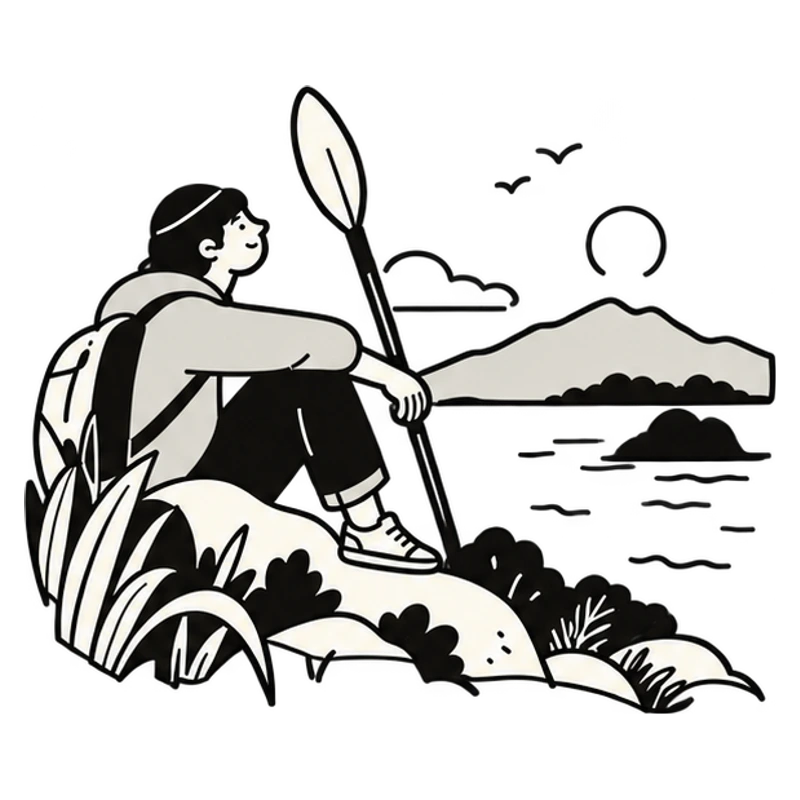
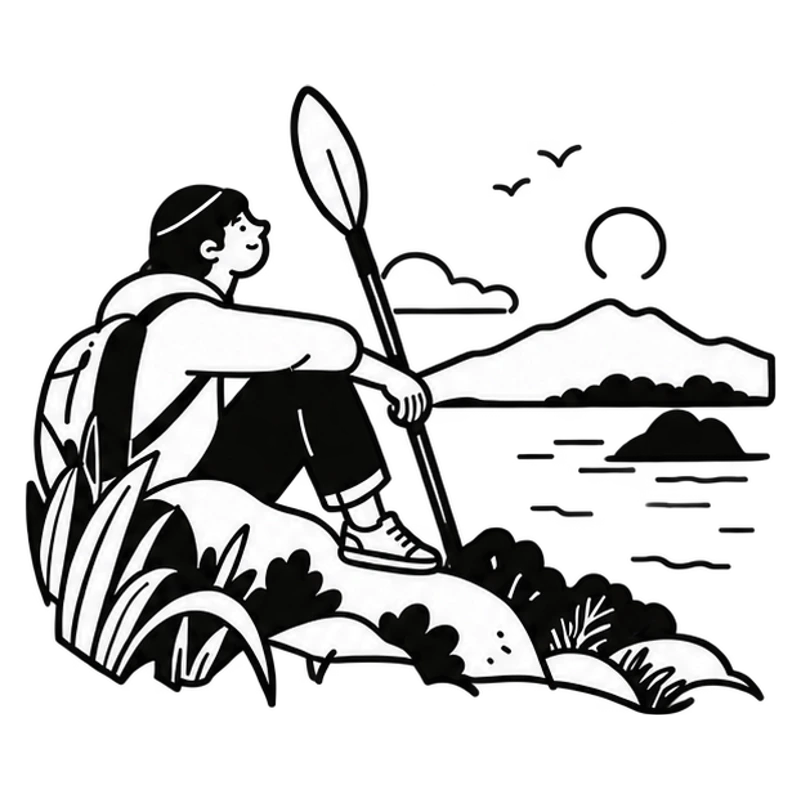
Enlarge model illustrations and replace beige fills with white

diff --git a/model/index.html b/model/index.html
@@ -76,7 +76,7 @@
 }
     </script>
     <script src="../assets/theme-init.js?v=24"></script>
-    <link rel="stylesheet" href="../assets/theme.css?v=106">
+    <link rel="stylesheet" href="../assets/theme.css?v=113">
   </head>
   <body class="ds-original-nav" style="--ds-nav-clearance: 114px;">
     <a class="skip-link" href="#main-content">Skip to main content</a>
@@ -142,10 +142,10 @@
     <main class="site-main" id="main-content">
       <section class="ds-component ds-v127 ds-type-header ds-purpose subpage-hero coaching-hero" data-coaching-version="04" data-hero-palette="model" data-purpose-layout="127" data-design="127" data-component="model/:1:header" data-component-palette="plum-sorbet" data-colour-context="header" data-colour-inverse="true"><div class="coaching-hero__backgrounds" aria-hidden="true"><div class="coaching-hero__background"></div></div><div class="pp-shell pp-header-2"><nav class="pp-breadcrumb" aria-label="Breadcrumb"><a href="../">Home</a><span aria-hidden="true">/</span><span aria-current="page">Model</span></nav><header class="pp-intro"><p class="ds-kicker"><span class="brand-name-text">Hoea tō Waka</span></p><h1 class="ds-title">Model</h1><p class="ds-lead"><span class="brand-name-text">Hoea tō Waka</span> is a resilience model designed for Aotearoa. It brings research, cultural context, and real-world practice together in a form people can remember and use.</p></header></div></section>
 
-      <section class="ds-component ds-v1 ds-type-benefits model-benefits" data-component="model/:5:benefits" data-model-benefits aria-labelledby="model-benefits-title"><header class="ds-section-heading model-benefits-heading"><p class="ds-kicker">Practical resilience</p><h2 class="ds-title" id="model-benefits-title">Why learn Hoea tō Waka?</h2></header><div class="model-benefit-list"><article class="model-benefit-row" data-benefit-row aria-labelledby="benefit-evidence-title"><span class="model-benefit-number" aria-hidden="true">01</span><div class="model-benefit-copy"><h3 id="benefit-evidence-title">Hoea tō Waka is evidence-based</h3><p>Hoea tō Waka is based on decades of research placed in our unique cultural context.</p></div><figure class="model-benefit-art" aria-hidden="true"><img src="../assets/model-benefits/evidence.webp?v=2" alt="" width="800" height="800" loading="lazy" decoding="async"></figure></article>
-        <article class="model-benefit-row" data-benefit-row aria-labelledby="benefit-aotearoa-title"><span class="model-benefit-number" aria-hidden="true">02</span><div class="model-benefit-copy"><h3 id="benefit-aotearoa-title">Designed especially for Aotearoa</h3><p>Hoea tō Waka can include concepts of whakapapa, tīpuna and the individual’s spiritual beliefs. Rather than being a technique, this model places us next to the client. Hoea tō Waka fits comfortably in a kaupapa Māori and mainstream environment. People have described the model as empowering and uplifting.</p></div><figure class="model-benefit-art" aria-hidden="true"><img src="../assets/model-benefits/aotearoa.webp?v=2" alt="" width="800" height="800" loading="lazy" decoding="async"></figure></article>
-        <article class="model-benefit-row" data-benefit-row aria-labelledby="benefit-applications-title"><span class="model-benefit-number" aria-hidden="true">03</span><div class="model-benefit-copy"><h3 id="benefit-applications-title">A huge range of applications</h3><p>Hoea tō Waka can help with self-care, avoiding burnout, confidence, loosening the grip of difficult thoughts and emotions, goal setting, depression, parenting, understanding others, motivation, anger, self-reflection and personal growth, helping others excel, professional supervision, and anxiety.</p></div><figure class="model-benefit-art" aria-hidden="true"><img src="../assets/model-benefits/applications.webp?v=2" alt="" width="800" height="800" loading="lazy" decoding="async"></figure></article>
-        <article class="model-benefit-row" data-benefit-row aria-labelledby="benefit-everyday-title"><span class="model-benefit-number" aria-hidden="true">04</span><div class="model-benefit-copy"><h3 id="benefit-everyday-title">Easy to apply and remember</h3><p>Have you ever left a workshop feeling inspired, but never applied what you learned? You can apply Hoea tō Waka to your every thought, emotion and behaviour, straight away. Workshop numbers are kept low so they are interactive and focused on your needs. Take Hoea tō Waka into your everyday life with resources including a short story, song and waiata-a-ringa.</p></div><figure class="model-benefit-art" aria-hidden="true"><img src="../assets/model-benefits/everyday.webp?v=2" alt="" width="800" height="800" loading="lazy" decoding="async"></figure></article></div></section>
+      <section class="ds-component ds-v1 ds-type-benefits model-benefits" data-component="model/:5:benefits" data-model-benefits aria-labelledby="model-benefits-title"><header class="ds-section-heading model-benefits-heading"><p class="ds-kicker">Practical resilience</p><h2 class="ds-title" id="model-benefits-title">Why learn Hoea tō Waka?</h2></header><div class="model-benefit-list"><article class="model-benefit-row" data-benefit-row aria-labelledby="benefit-evidence-title"><span class="model-benefit-number" aria-hidden="true">01</span><div class="model-benefit-copy"><h3 id="benefit-evidence-title">Hoea tō Waka is evidence-based</h3><p>Hoea tō Waka is based on decades of research placed in our unique cultural context.</p></div><figure class="model-benefit-art" aria-hidden="true"><img src="../assets/model-benefits/evidence.webp?v=3" alt="" width="800" height="800" loading="lazy" decoding="async"></figure></article>
+        <article class="model-benefit-row" data-benefit-row aria-labelledby="benefit-aotearoa-title"><span class="model-benefit-number" aria-hidden="true">02</span><div class="model-benefit-copy"><h3 id="benefit-aotearoa-title">Designed especially for Aotearoa</h3><p>Hoea tō Waka can include concepts of whakapapa, tīpuna and the individual’s spiritual beliefs. Rather than being a technique, this model places us next to the client. Hoea tō Waka fits comfortably in a kaupapa Māori and mainstream environment. People have described the model as empowering and uplifting.</p></div><figure class="model-benefit-art" aria-hidden="true"><img src="../assets/model-benefits/aotearoa.webp?v=3" alt="" width="800" height="800" loading="lazy" decoding="async"></figure></article>
+        <article class="model-benefit-row" data-benefit-row aria-labelledby="benefit-applications-title"><span class="model-benefit-number" aria-hidden="true">03</span><div class="model-benefit-copy"><h3 id="benefit-applications-title">A huge range of applications</h3><p>Hoea tō Waka can help with self-care, avoiding burnout, confidence, loosening the grip of difficult thoughts and emotions, goal setting, depression, parenting, understanding others, motivation, anger, self-reflection and personal growth, helping others excel, professional supervision, and anxiety.</p></div><figure class="model-benefit-art" aria-hidden="true"><img src="../assets/model-benefits/applications.webp?v=3" alt="" width="800" height="800" loading="lazy" decoding="async"></figure></article>
+        <article class="model-benefit-row" data-benefit-row aria-labelledby="benefit-everyday-title"><span class="model-benefit-number" aria-hidden="true">04</span><div class="model-benefit-copy"><h3 id="benefit-everyday-title">Easy to apply and remember</h3><p>Have you ever left a workshop feeling inspired, but never applied what you learned? You can apply Hoea tō Waka to your every thought, emotion and behaviour, straight away. Workshop numbers are kept low so they are interactive and focused on your needs. Take Hoea tō Waka into your everyday life with resources including a short story, song and waiata-a-ringa.</p></div><figure class="model-benefit-art" aria-hidden="true"><img src="../assets/model-benefits/everyday.webp?v=3" alt="" width="800" height="800" loading="lazy" decoding="async"></figure></article></div></section>
 
       <section class="ds-component ds-v27 ds-type-uses ds-expanded" data-collection="Graphic" data-layout="cutout" data-design="27" data-component="model/:3:uses" style="--ds-bg: var(--paint-f2edcb, #f2edcb); --ds-ink: var(--paint-252c48, #252c48); --ds-muted: var(--paint-565a70, #565a70); --ds-surface: var(--paint-fffbed, #fffbed); --ds-accent: var(--paint-d8dd8e, #d8dd8e); --ds-line: var(--paint-bdbda8, #bdbda8); --ex-font: var(--font-heading);" data-component-palette="tidal-bloom" data-colour-context="uses" data-colour-inverse="false"><div class="ex-composition ex-cutout ex-mode-1"><div class="ex-rail"><span><span class="brand-name-text">HOEA TŌ WAKA</span></span><span><svg xmlns="http://www.w3.org/2000/svg" width="24" height="24" viewBox="0 0 24 24" fill="none" stroke="currentColor" stroke-width="2" stroke-linecap="round" stroke-linejoin="round"><path d="M2 6c.6.5 1.2 1 2.5 1C7 7 7 5 9.5 5c2.6 0 2.4 2 5 2 2.5 0 2.5-2 5-2 1.3 0 1.9.5 2.5 1"></path><path d="M2 12c.6.5 1.2 1 2.5 1 2.5 0 2.5-2 5-2 2.6 0 2.4 2 5 2 2.5 0 2.5-2 5-2 1.3 0 1.9.5 2.5 1"></path><path d="M2 18c.6.5 1.2 1 2.5 1 2.5 0 2.5-2 5-2 2.6 0 2.4 2 5 2 2.5 0 2.5-2 5-2 1.3 0 1.9.5 2.5 1"></path></svg> PRACTICAL RESILIENCE / AOTEAROA</span></div><div class="ex-cutout-stage"><figure class="ex-visual"><img src="../assets/placeholders/landscape.svg" alt="Image placeholder" loading="lazy" decoding="async"><figcaption><svg xmlns="http://www.w3.org/2000/svg" width="24" height="24" viewBox="0 0 24 24" fill="none" stroke="currentColor" stroke-width="2" stroke-linecap="round" stroke-linejoin="round"><path d="m16.24 7.76-1.804 5.411a2 2 0 0 1-1.265 1.265L7.76 16.24l1.804-5.411a2 2 0 0 1 1.265-1.265z"></path><circle cx="12" cy="12" r="10"></circle></svg><span>A visual exploration of possibility.</span></figcaption></figure><header class="ex-heading"><p class="ds-kicker">Where it can help</p><h2 class="ds-title">A flexible model for real life</h2><p class="ds-lead"><span class="brand-name-text">Hoea tō Waka</span> can support reflection and action across a wide range of situations.</p></header></div><div class="ex-cutout-base"><aside class="ex-aside"><svg xmlns="http://www.w3.org/2000/svg" width="24" height="24" viewBox="0 0 24 24" fill="none" stroke="currentColor" stroke-width="2" stroke-linecap="round" stroke-linejoin="round"><path d="m16.24 7.76-1.804 5.411a2 2 0 0 1-1.265 1.265L7.76 16.24l1.804-5.411a2 2 0 0 1 1.265-1.265z"></path><circle cx="12" cy="12" r="10"></circle></svg><p>People. Context.<br>Possibility.</p><a href="../about/">Meet the approach <svg xmlns="http://www.w3.org/2000/svg" width="18" height="18" viewBox="0 0 24 24" fill="none" stroke="currentColor" stroke-width="1.6" stroke-linecap="round" stroke-linejoin="round" aria-hidden="true" focusable="false"><path d="M5 12h14m-6-6 6 6-6 6"></path></svg></a></aside><div class="ex-content"><ul class="ex-tags"><li data-card-unit="" data-atom-variant="0"><span class="ds-number">01</span>Self-care</li><li data-card-unit="" data-atom-variant="0"><span class="ds-number">02</span>Burnout prevention</li><li data-card-unit="" data-atom-variant="0"><span class="ds-number">03</span>Confidence</li><li data-card-unit="" data-atom-variant="0"><span class="ds-number">04</span>Values</li><li data-card-unit="" data-atom-variant="0"><span class="ds-number">05</span>Goal setting</li><li data-card-unit="" data-atom-variant="0"><span class="ds-number">06</span>Motivation</li><li data-card-unit="" data-atom-variant="0"><span class="ds-number">07</span>Difficult emotions</li><li data-card-unit="" data-atom-variant="0"><span class="ds-number">08</span>Parenting</li><li data-card-unit="" data-atom-variant="0"><span class="ds-number">09</span>Professional supervision</li><li data-card-unit="" data-atom-variant="0"><span class="ds-number">10</span>Understanding others</li><li data-card-unit="" data-atom-variant="0"><span class="ds-number">11</span>Personal growth</li><li data-card-unit="" data-atom-variant="0"><span class="ds-number">12</span>Anxiety</li></ul><div class="ds-prose"></div></div></div></div></section>
 

diff --git a/assets/theme.css b/assets/theme.css
@@ -943,9 +943,10 @@ html[data-palette] .ds-component.model-benefits{background:var(--brand-paper);co
 .model-benefits .model-benefit-copy h3{margin:0;font-size:clamp(25px,2.2vw,34px);font-weight:500!important;line-height:1.2;letter-spacing:-.035em;color:inherit}
 .model-benefits .model-benefit-copy p{margin:16px 0 0;line-height:1.75;color:inherit;font-weight:400}
 .model-benefits .model-benefit-art{position:relative;align-self:stretch;margin:0;width:100%;min-height:0;pointer-events:none}
-.model-benefits .model-benefit-art img{position:absolute;inset:auto;top:50%;left:50%;width:min(100%,160px);height:min(160px,calc(100% + 48px));aspect-ratio:1;object-fit:contain;opacity:1;transform:translate(-50%,-50%)}
+.model-benefits .model-benefit-art img{position:absolute;inset:auto;top:50%;left:50%;width:min(100%,180px);height:min(180px,calc(100% + 64px));aspect-ratio:1;object-fit:contain;opacity:1;transform:translate(-50%,-50%)}
 @media(max-width:1100px){
- .model-benefit-row{grid-template-columns:30px minmax(0,1fr) 160px;gap:20px;padding:30px 24px}
+ .model-benefits .model-benefit-art img{height:min(180px,calc(100% + 48px))}
+ .model-benefit-row{grid-template-columns:30px minmax(0,1fr) 180px;gap:20px;padding:30px 24px}
 }
 @media(max-width:760px){
  .model-benefits .model-benefits-heading{margin-bottom:40px}
@@ -953,6 +954,6 @@ html[data-palette] .ds-component.model-benefits{background:var(--brand-paper);co
  .model-benefit-number{grid-column:1;grid-row:1;padding-top:3px}
  .model-benefit-copy{grid-column:1/-1;grid-row:2}
  .model-benefits .model-benefit-copy h3{font-size:26px}
- .model-benefits .model-benefit-art{grid-column:1/-1;grid-row:3;justify-self:center;width:180px;height:160px;aspect-ratio:auto;margin-top:4px}
+ .model-benefits .model-benefit-art{grid-column:1/-1;grid-row:3;justify-self:center;width:180px;height:180px;aspect-ratio:auto;margin-top:4px}
  .model-benefits .model-benefit-art img{opacity:1}
 }

diff --git a/design/model-benefits.css b/design/model-benefits.css
@@ -11,9 +11,10 @@ html[data-palette] .ds-component.model-benefits{background:var(--brand-paper);co
 .model-benefits .model-benefit-copy h3{margin:0;font-size:clamp(25px,2.2vw,34px);font-weight:500!important;line-height:1.2;letter-spacing:-.035em;color:inherit}
 .model-benefits .model-benefit-copy p{margin:16px 0 0;line-height:1.75;color:inherit;font-weight:400}
 .model-benefits .model-benefit-art{position:relative;align-self:stretch;margin:0;width:100%;min-height:0;pointer-events:none}
-.model-benefits .model-benefit-art img{position:absolute;inset:auto;top:50%;left:50%;width:min(100%,160px);height:min(160px,calc(100% + 48px));aspect-ratio:1;object-fit:contain;opacity:1;transform:translate(-50%,-50%)}
+.model-benefits .model-benefit-art img{position:absolute;inset:auto;top:50%;left:50%;width:min(100%,180px);height:min(180px,calc(100% + 64px));aspect-ratio:1;object-fit:contain;opacity:1;transform:translate(-50%,-50%)}
 @media(max-width:1100px){
- .model-benefit-row{grid-template-columns:30px minmax(0,1fr) 160px;gap:20px;padding:30px 24px}
+ .model-benefits .model-benefit-art img{height:min(180px,calc(100% + 48px))}
+ .model-benefit-row{grid-template-columns:30px minmax(0,1fr) 180px;gap:20px;padding:30px 24px}
 }
 @media(max-width:760px){
  .model-benefits .model-benefits-heading{margin-bottom:40px}
@@ -21,6 +22,6 @@ html[data-palette] .ds-component.model-benefits{background:var(--brand-paper);co
  .model-benefit-number{grid-column:1;grid-row:1;padding-top:3px}
  .model-benefit-copy{grid-column:1/-1;grid-row:2}
  .model-benefits .model-benefit-copy h3{font-size:26px}
- .model-benefits .model-benefit-art{grid-column:1/-1;grid-row:3;justify-self:center;width:180px;height:160px;aspect-ratio:auto;margin-top:4px}
+ .model-benefits .model-benefit-art{grid-column:1/-1;grid-row:3;justify-self:center;width:180px;height:180px;aspect-ratio:auto;margin-top:4px}
  .model-benefits .model-benefit-art img{opacity:1}
 }

diff --git a/assets/model-benefits/README.md b/assets/model-benefits/README.md
@@ -7,6 +7,8 @@ The four 800 x 800 transparent WebP illustrations were extracted from the user-s
 - `applications.webp`: person with branching everyday applications.
 - `everyday.webp`: person taking learning from a workshop into daily life.
 
-The cutouts preserve the black linework and light interior fills. All share matching canvas padding and a 160px display size. Desktop images sit within the row padding without making the text rows taller; mobile images occupy a compact dedicated area.
+The cutouts preserve the black linework and white interior fills. All share matching canvas padding and a 180px display size. Desktop images sit within the row padding without making the text rows taller; mobile images occupy a compact dedicated area.
 
 `replacement-prompts.json` records the background-extraction and cleanup prompts. `prompts.json` records the earlier, replaced artwork.
+
+The white-fill revision uses the built-in image generation tool to replace the cream/grey interiors with white while retaining the existing alpha and black linework. The edit prompt is saved in `white-fill-prompt.json`.
